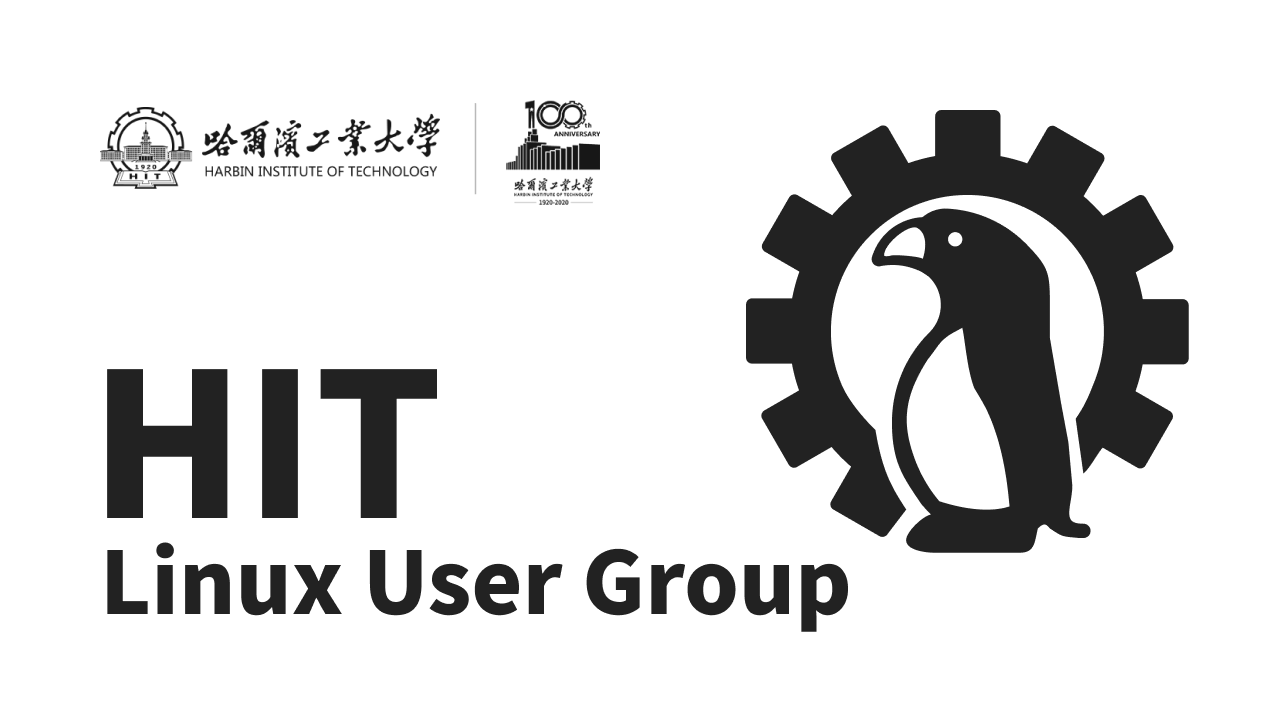
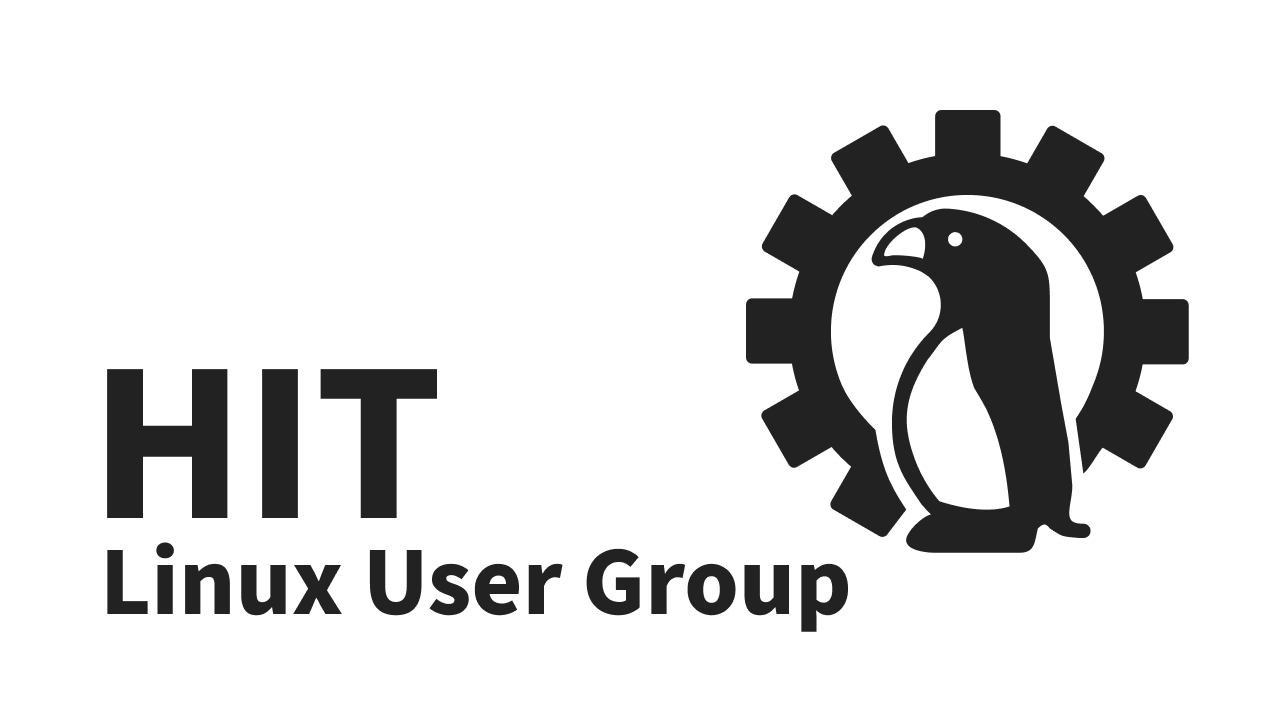
更改头图，手机/PC设备进行适配

Changed region(s): [[0.0625, 0.1528, 0.3438, 0.275], [0.375, 0.1222, 0.4688, 0.3056]]

diff --git a/src/App.vue b/src/App.vue
@@ -1,8 +1,12 @@
 <template>
     <div id="app" style="font-family: consolas">
         <!-- <div class="img-head"></div> -->
-        <div class="head-bg">
+        <div class="head-bg hidden-sm-and-up">
             <img class="head-img" src="./assets/images/header_alpha.png"/>
+        </div>
+        <div class="head-bg hidden-xs-only" style="padding-top: 20px; padding-bottom: 20px;">
+            <img class="head-img-text" src="./assets/images/text.png"/>
+            <img class="head-img-logo" src="./assets/images/logo.png"/>
         </div>
         <container class="container"/>
         <div style="height: 100px; background-color: white; margin-top: 40px">
@@ -58,8 +62,9 @@ body {
 
 
 .head-bg {
-    max-height: 300px;
-    display: block;
+    max-height: 200px;
+    display: flex;
+    justify-content: space-around;
     margin: auto;
     text-align: center;
     max-width: 100%;
@@ -68,7 +73,33 @@ body {
 
 .head-img {
     display: inline-block;
+    /*display: block;*/
     max-width: 100%;
-    max-height: 300px;
+    max-height: 180px;
+}
+
+.head-img-text {
+    display: inline-block;
+    /*display: block;*/
+    max-width: 100%;
+    max-height: 180px;
+}
+
+.head-img-logo {
+    display: inline-block;
+    /*display: block;*/
+    max-width: 100%;
+    max-height: 180px;
+    -webkit-transition: -webkit-transform 1s linear;
+    transition: transform 1s linear;
+}
+
+.head-img-logo:hover {
+    -webkit-transform: rotate(5deg);
+    transform: rotate(5deg);
+    -webkit-transition-delay: 2s;
+    transition-delay: 2s;
+    -webkit-transition: -webkit-transform 2s linear;
+    transition: transform 2s linear;
 }
 </style>
